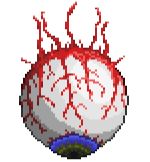
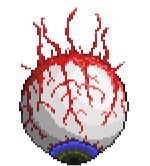
boss health commit

Changed region(s): [[0.1067, 0.0, 0.88, 1.0], [0.24, 0.6481, 0.2667, 0.679]]

diff --git a/main.py b/main.py
@@ -91,14 +91,14 @@ class Hero(pygame.sprite.Sprite):
         super().__init__(all_sprites)
         self.fly_animation = []
         self.fly_animation_l = []
-        self.fly_animation.append(pygame.transform.scale(load_image('fly1.png'), (173, 64)))
-        self.fly_animation.append(pygame.transform.scale(load_image('fly2.png'), (173, 64)))
-        self.fly_animation.append(pygame.transform.scale(load_image('fly3.png'), (173, 64)))
-        self.fly_animation_l.append(pygame.transform.scale(load_image('fly1_l.png'), (173, 64)))
-        self.fly_animation_l.append(pygame.transform.scale(load_image('fly2_l.png'), (173, 64)))
-        self.fly_animation_l.append(pygame.transform.scale(load_image('fly3_l.png'), (173, 64)))
+        self.fly_animation.append(pygame.transform.scale(load_image('fly/fly1.png'), (173, 64)))
+        self.fly_animation.append(pygame.transform.scale(load_image('fly/fly2.png'), (173, 64)))
+        self.fly_animation.append(pygame.transform.scale(load_image('fly/fly3.png'), (173, 64)))
+        self.fly_animation_l.append(pygame.transform.scale(load_image('fly/fly1_l.png'), (173, 64)))
+        self.fly_animation_l.append(pygame.transform.scale(load_image('fly/fly2_l.png'), (173, 64)))
+        self.fly_animation_l.append(pygame.transform.scale(load_image('fly/fly3_l.png'), (173, 64)))
         self.current_im = 0
-        self.image = pygame.transform.scale(load_image('hero.png'), (173, 64))
+        self.image = pygame.transform.scale(load_image('fly/hero.png'), (173, 64))
         self.rect = self.image.get_rect()
         self.rect.y = 635
         self.fly = 50
@@ -116,7 +116,7 @@ class Hero(pygame.sprite.Sprite):
                     self.current_im = 0
                 self.image = self.fly_animation_l[int(self.current_im)]
             else:
-                self.image = pygame.transform.scale(load_image('hero_l.png'), (173, 64))
+                self.image = pygame.transform.scale(load_image('fly/hero_l.png'), (173, 64))
         else:
             if self.is_flying:
                 self.current_im += 0.6
@@ -124,7 +124,7 @@ class Hero(pygame.sprite.Sprite):
                     self.current_im = 0
                 self.image = self.fly_animation[int(self.current_im)]
             else:
-                self.image = pygame.transform.scale(load_image('hero.png'), (173, 64))
+                self.image = pygame.transform.scale(load_image('fly/hero.png'), (173, 64))
 
 
 class Foe(pygame.sprite.Sprite):
@@ -135,16 +135,16 @@ class Foe(pygame.sprite.Sprite):
         self.animation.append(pygame.transform.scale(load_image('eoc_anim/eoc1_1.png'), (150, 166)))
         self.animation.append(pygame.transform.scale(load_image('eoc_anim/eoc1_2.png'), (150, 166)))
         self.animation.append(pygame.transform.scale(load_image('eoc_anim/eoc1_3.png'), (150, 166)))
-        self.attack_animation.append(pygame.transform.scale(load_image('fly1_l.png'), (173, 64)))
-        self.attack_animation.append(pygame.transform.scale(load_image('fly2_l.png'), (173, 64)))
-        self.attack_animation.append(pygame.transform.scale(load_image('fly3_l.png'), (173, 64)))
+        self.attack_animation.append(pygame.transform.scale(load_image('fly/fly1_l.png'), (173, 64)))
+        self.attack_animation.append(pygame.transform.scale(load_image('fly/fly2_l.png'), (173, 64)))
+        self.attack_animation.append(pygame.transform.scale(load_image('fly/fly3_l.png'), (173, 64)))
         self.current_im = 0
         self.image = pygame.transform.scale(load_image('eoc_anim/eoc1_1.png'), (150, 166))
         self.rect = self.image.get_rect()
         self.rect.y = 50
         self.rect.x = 400
         self.attack = False
-        self.health = 50
+        self.health = 70
 
     def update(self):
         if self.attack:
@@ -198,7 +198,6 @@ def load_level_1():
                 shoot = False
         if flLeft:
             player.rect.x -= 10
-            print(1)
         elif flRight:
             player.rect.x += 10
         if flup and player.fly > 0:
@@ -216,9 +215,9 @@ def load_level_1():
             player.is_flying = False
             player.current_im = 0
             if player.left:
-                player.image = pygame.transform.scale(load_image('hero_l.png'), (173, 64))
+                player.image = pygame.transform.scale(load_image('fly/hero_l.png'), (173, 64))
             else:
-                player.image = pygame.transform.scale(load_image('hero.png'), (173, 64))
+                player.image = pygame.transform.scale(load_image('fly/hero.png'), (173, 64))
             player.fly = 50
         else:
             player.is_flying = True
@@ -231,8 +230,8 @@ def load_level_1():
 
         if boss.health > 0:
             gradientRect_horizontal(screen, (255, 172, 93), (139, 0, 0),
-                                    pygame.Rect(boss.rect.x + 74 - 25, boss.rect.y + 109 + 62, 50, 10))
-            pygame.draw.rect(screen, (0, 0, 0), (boss.rect.x + 74 - 25, boss.rect.y + 109 + 62, 50 - boss.health, 10))
+                                    pygame.Rect(boss.rect.x + 74 - 35, boss.rect.y + 109 + 62, 70, 10))
+            pygame.draw.rect(screen, (0, 0, 0), (boss.rect.x + 74 - 35, boss.rect.y + 109 + 62, int(70 - boss.health), 10))
 
         gun = pygame.transform.scale(load_image('the_undertaker.png'), (46, 24))
         gun_l = pygame.transform.scale(load_image('the_undertaker_l.png'), (46, 24))
@@ -263,7 +262,7 @@ def load_level_1():
                             bullet = Bullet(rotated_image, (
                                 int(pivot[0] + offset.rotate(angle)[0] * 3.7),
                                 int(pivot[1] + offset.rotate(angle)[1] * 3.7)),
-                                            angle, 15, 10, bullets1)
+                                            angle, 15, 3, bullets1)
                     else:
                         screen.blit(gun_l, (player.rect.x + 25, player.rect.y + 20))
                 else:
@@ -281,7 +280,7 @@ def load_level_1():
                             rotated_image, a = rotate(bullet_im, angle, pivot, offset)
                             bullet = Bullet(rotated_image, (
                                 int(pivot[0] + offset.rotate(angle)[0] * 3.7),
-                                int(pivot[1] + offset.rotate(angle)[1] * 3.7)), angle, 15, 10, bullets1)
+                                int(pivot[1] + offset.rotate(angle)[1] * 3.7)), angle, 15, 3, bullets1)
                     else:
                         screen.blit(gun, (player.rect.x + 100, player.rect.y + 20))
             else:
@@ -301,7 +300,7 @@ def load_level_1():
                             bullet = Bullet(rotated_image, (
                                 int(pivot[0] + offset.rotate(angle)[0] * 3.7),
                                 int(pivot[1] + offset.rotate(angle)[1] * 3.7)),
-                                            angle, 15, 10, bullets1)
+                                            angle, 15, 3, bullets1)
                     else:
                         screen.blit(gun_l, (player.rect.x + 27, player.rect.y + 25))
                 else:
@@ -319,7 +318,7 @@ def load_level_1():
                             rotated_image, a = rotate(bullet_im, angle, pivot, offset)
                             bullet = Bullet(rotated_image, (
                                 int(pivot[0] + offset.rotate(angle)[0] * 3.7),
-                                int(pivot[1] + offset.rotate(angle)[1] * 3.7)), angle, 15, 10, bullets1)
+                                int(pivot[1] + offset.rotate(angle)[1] * 3.7)), angle, 15, 3, bullets1)
                     else:
                         screen.blit(gun, (player.rect.x + 100, player.rect.y + 25))
 
@@ -341,7 +340,7 @@ def load_level_1():
                             bullet = Bullet(rotated_image, (
                                 int(pivot[0] + offset.rotate(angle)[0] * 3.7),
                                 int(pivot[1] + offset.rotate(angle)[1] * 3.7)),
-                                            angle, 25, 5, bullets1)
+                                            angle, 25, 0.7, bullets1)
                     else:
                         screen.blit(mgun_l, (player.rect.x + 15, player.rect.y + 20))
                 else:
@@ -359,7 +358,7 @@ def load_level_1():
                             rotated_image, a = rotate(bullet_im, angle, pivot, offset)
                             bullet = Bullet(rotated_image, (
                                 int(pivot[0] + offset.rotate(angle)[0] * 3.7),
-                                int(pivot[1] + offset.rotate(angle)[1] * 3.7)), angle, 25, 5, bullets1)
+                                int(pivot[1] + offset.rotate(angle)[1] * 3.7)), angle, 25, 0.7, bullets1)
                     else:
                         screen.blit(mgun, (player.rect.x + 90, player.rect.y + 20))
             else:
@@ -379,7 +378,7 @@ def load_level_1():
                             bullet = Bullet(rotated_image, (
                                 int(pivot[0] + offset.rotate(angle)[0] * 3.7),
                                 int(pivot[1] + offset.rotate(angle)[1] * 3.7)),
-                                            angle, 25, 5, bullets1)
+                                            angle, 25, 0.7, bullets1)
                     else:
                         screen.blit(mgun_l, (player.rect.x + 15, player.rect.y + 25))
                 else:
@@ -397,7 +396,7 @@ def load_level_1():
                             rotated_image, a = rotate(bullet_im, angle, pivot, offset)
                             bullet = Bullet(rotated_image, (
                                 int(pivot[0] + offset.rotate(angle)[0] * 3.7),
-                                int(pivot[1] + offset.rotate(angle)[1] * 3.7)), angle, 25, 5, bullets1)
+                                int(pivot[1] + offset.rotate(angle)[1] * 3.7)), angle, 25, 0.7, bullets1)
                     else:
                         screen.blit(mgun, (player.rect.x + 90, player.rect.y + 25))
         if boss.health <= 0:
@@ -517,7 +516,7 @@ def start_screen():
     play = pygame.transform.scale(load_image('play.png'), (300, 100))
     fon = pygame.transform.scale(load_image('fon.jpg'), (size))
     screen.blit(fon, (0, 0))
-    screen.blit(play, (350, 300))
+    screen.blit(play, (440, 300))
     pygame.mixer.music.load('data/title.ogg')
     pygame.mixer.music.play()
 
@@ -527,7 +526,7 @@ def start_screen():
                 terminate()
             elif event.type == pygame.KEYDOWN or \
                     event.type == pygame.MOUSEBUTTONDOWN:
-                if 350 < pygame.mouse.get_pos()[0] < 650 and 300 < pygame.mouse.get_pos()[1] < 400:
+                if 440 < pygame.mouse.get_pos()[0] < 740 and 300 < pygame.mouse.get_pos()[1] < 400:
                     level_menu_screen()
         pygame.display.flip()
 
@@ -537,10 +536,12 @@ def level_menu_screen():
     medium = pygame.transform.scale(load_image('medium.png'), (150, 150))
     hard = pygame.transform.scale(load_image('hard.png'), (150, 150))
     fon = pygame.transform.scale(load_image('fon.jpg'), (size))
+    back = pygame.transform.scale(load_image('back.png'), (120, 60))
     screen.blit(fon, (0, 0))
-    screen.blit(easy, (200, 250))
-    screen.blit(medium, (425, 250))
-    screen.blit(hard, (650, 250))
+    screen.blit(easy, (300, 300))
+    screen.blit(medium, (525, 300))
+    screen.blit(hard, (750, 300))
+    screen.blit(back, (0, 0))
 
     while True:
         for event in pygame.event.get():
@@ -548,15 +549,17 @@ def level_menu_screen():
                 terminate()
             elif event.type == pygame.KEYDOWN or \
                     event.type == pygame.MOUSEBUTTONDOWN:
-                if 200 < pygame.mouse.get_pos()[0] < 350 and 250 < pygame.mouse.get_pos()[1] < 400:
+                if 300 < pygame.mouse.get_pos()[0] < 450 and 300 < pygame.mouse.get_pos()[1] < 450:
                     pygame.mixer.music.stop()
                     load_level_1()
-                elif 425 < pygame.mouse.get_pos()[0] < 575 and 250 < pygame.mouse.get_pos()[1] < 400:
+                elif 525 < pygame.mouse.get_pos()[0] < 675 and 300 < pygame.mouse.get_pos()[1] < 450:
                     pygame.mixer.music.stop()
                     load_level_2()
-                elif 650 < pygame.mouse.get_pos()[0] < 800 and 250 < pygame.mouse.get_pos()[1] < 400:
+                elif 750 < pygame.mouse.get_pos()[0] < 900 and 300 < pygame.mouse.get_pos()[1] < 450:
                     pygame.mixer.music.stop()
                     load_level_3()
+                elif 0 < pygame.mouse.get_pos()[0] < 120 and 0 < pygame.mouse.get_pos()[1] < 60:
+                    start_screen()
         pygame.display.flip()
 
 
